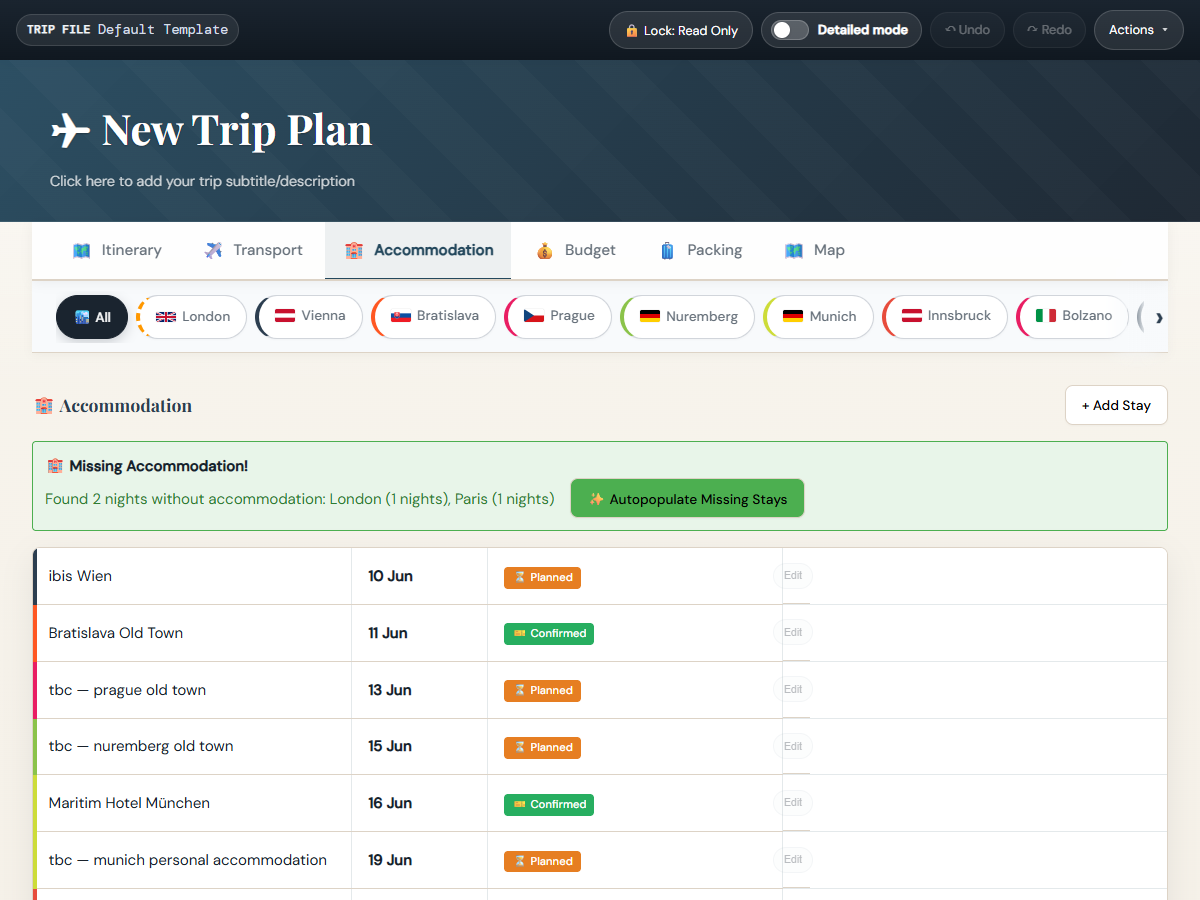
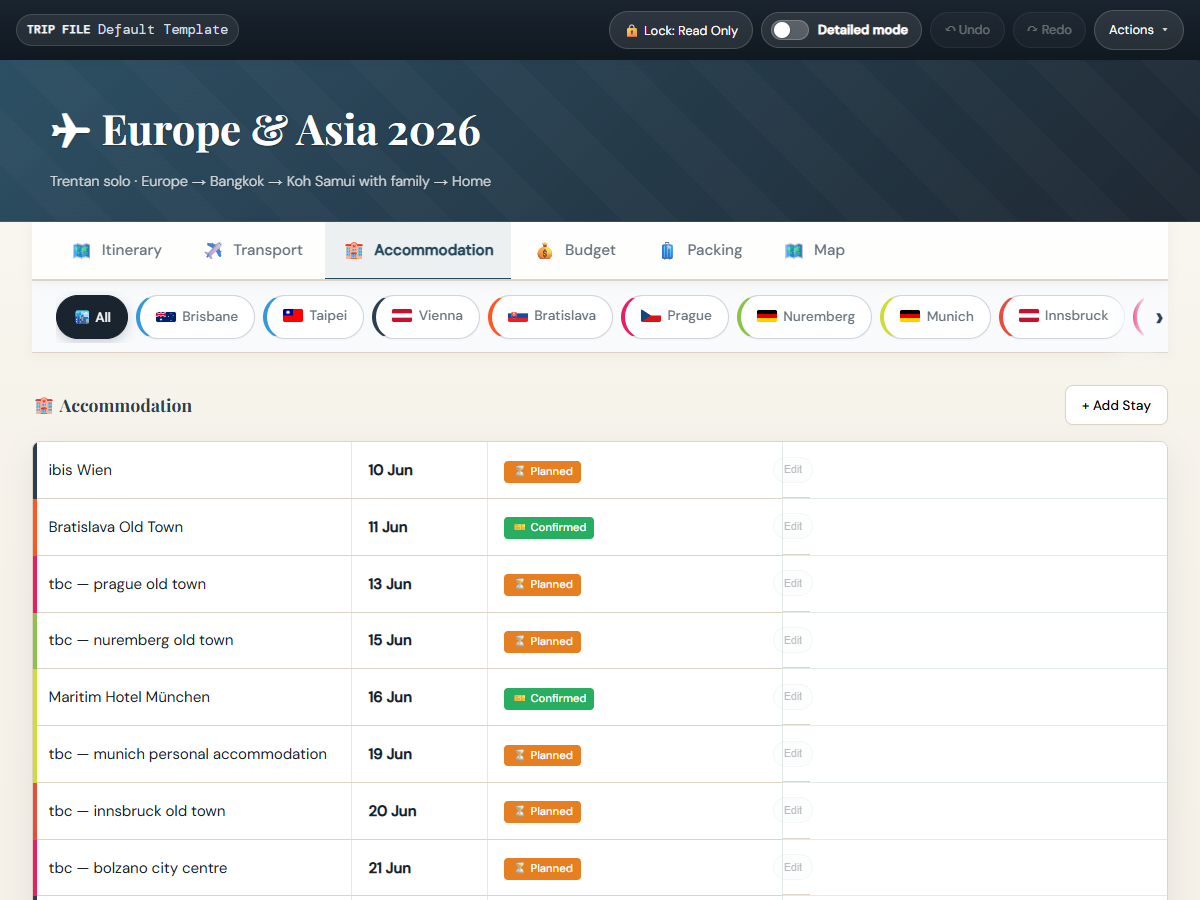
[WI-023] Fix desktop table regressions and ensure consistent mobile metadata styling

diff --git a/style.css b/style.css
@@ -4591,10 +4591,7 @@ body.compact-view-mode .packing-item { font-size: 11px; }
     display: inline;
   }
   .accom-table thead th:first-child {
-    display: table-cell !important;
-  }
-  .data-table thead {
-    display: table-header-group !important;
+    display: none !important;
   }
 
   .stay-expand-col,
@@ -4607,17 +4604,16 @@ body.compact-view-mode .packing-item { font-size: 11px; }
   .transport-mobile-expand,
   .transport-schedule-meta,
   .transport-carrier-meta,
+  .transport-status-cost-meta,
   .transport-mobile-menu-btn,
   .stay-mobile-meta,
-  .stay-date-meta {
+  .stay-date-meta,
+  .mobile-status-cost-meta,
+  .stay-status-cost-meta {
     display: none !important;
   }
   .accom-table .stay-status-badge {
     display: inline-flex;
-  }
-  .accom-table .stay-status-cost-meta,
-  .mobile-status-cost-meta {
-    display: none !important;
   }
 }
 